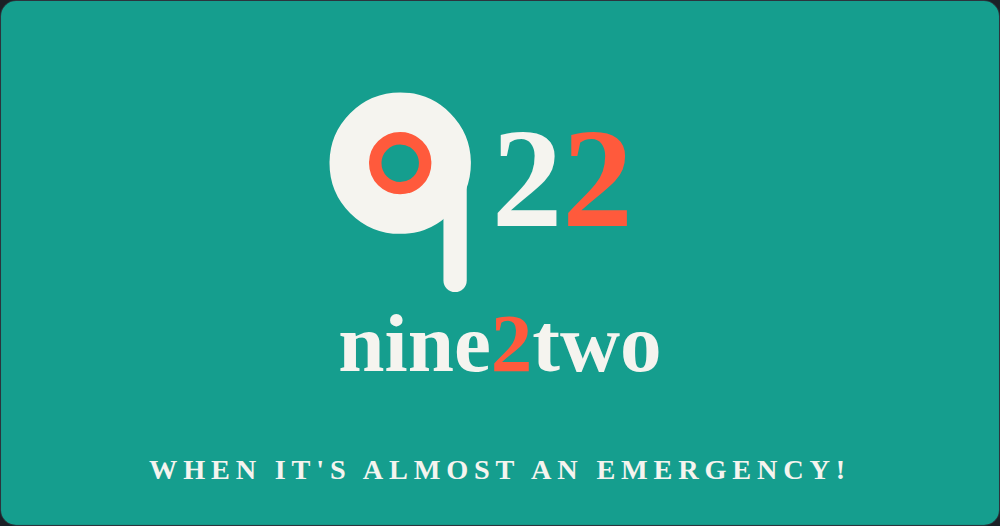
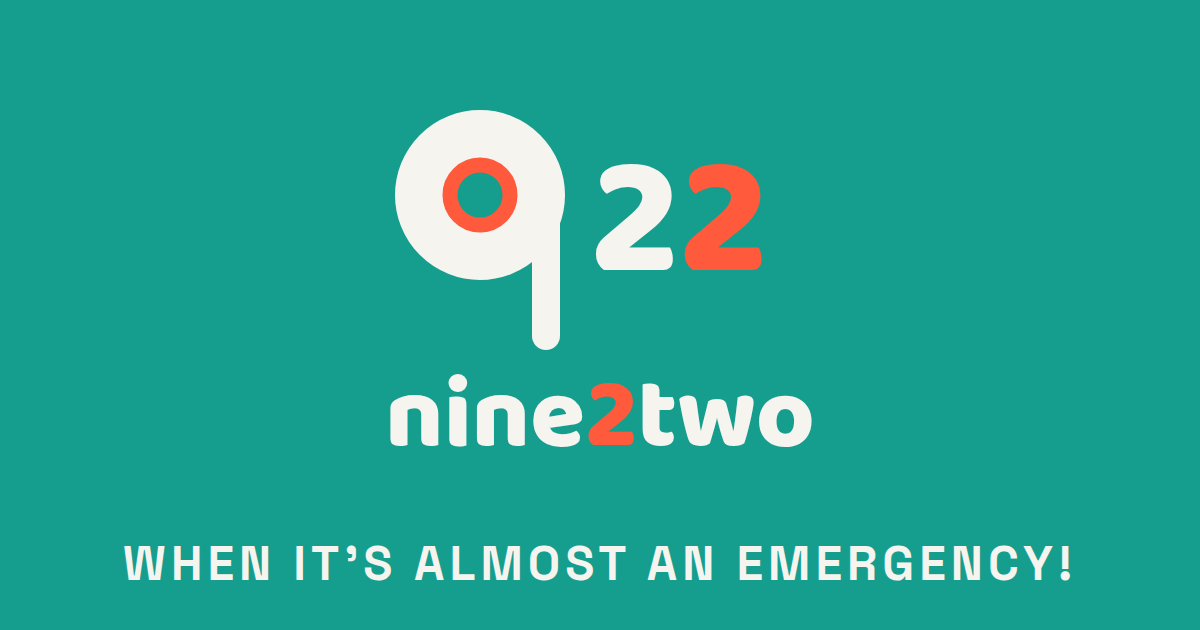
Regenerate og-image at 1200x630 with properly rendered fonts
Rendered from the brand SVG in headless Chromium with Baloo 2 (800)
and Space Grotesk (700) embedded as font files, replacing the phone
screenshot whose fonts had fallen back and whose tagline was
illegible at link-preview thumbnail size. og:image:width/height meta
updated to the new 1200x630.

Claude-Session: https://claude.ai/code/session_018DMsvk2gUn2GCpSCjsAuHY

diff --git a/index.html b/index.html
@@ -13,8 +13,8 @@
 <meta property="og:description" content="When it's almost an emergency.">
 <meta property="og:url" content="https://loalgee.github.io/nine2two-922-/">
 <meta property="og:image" content="https://loalgee.github.io/nine2two-922-/og-image.png">
-<meta property="og:image:width" content="1000">
-<meta property="og:image:height" content="526">
+<meta property="og:image:width" content="1200">
+<meta property="og:image:height" content="630">
 
 <!-- Twitter Card -->
 <meta name="twitter:card" content="summary_large_image">
